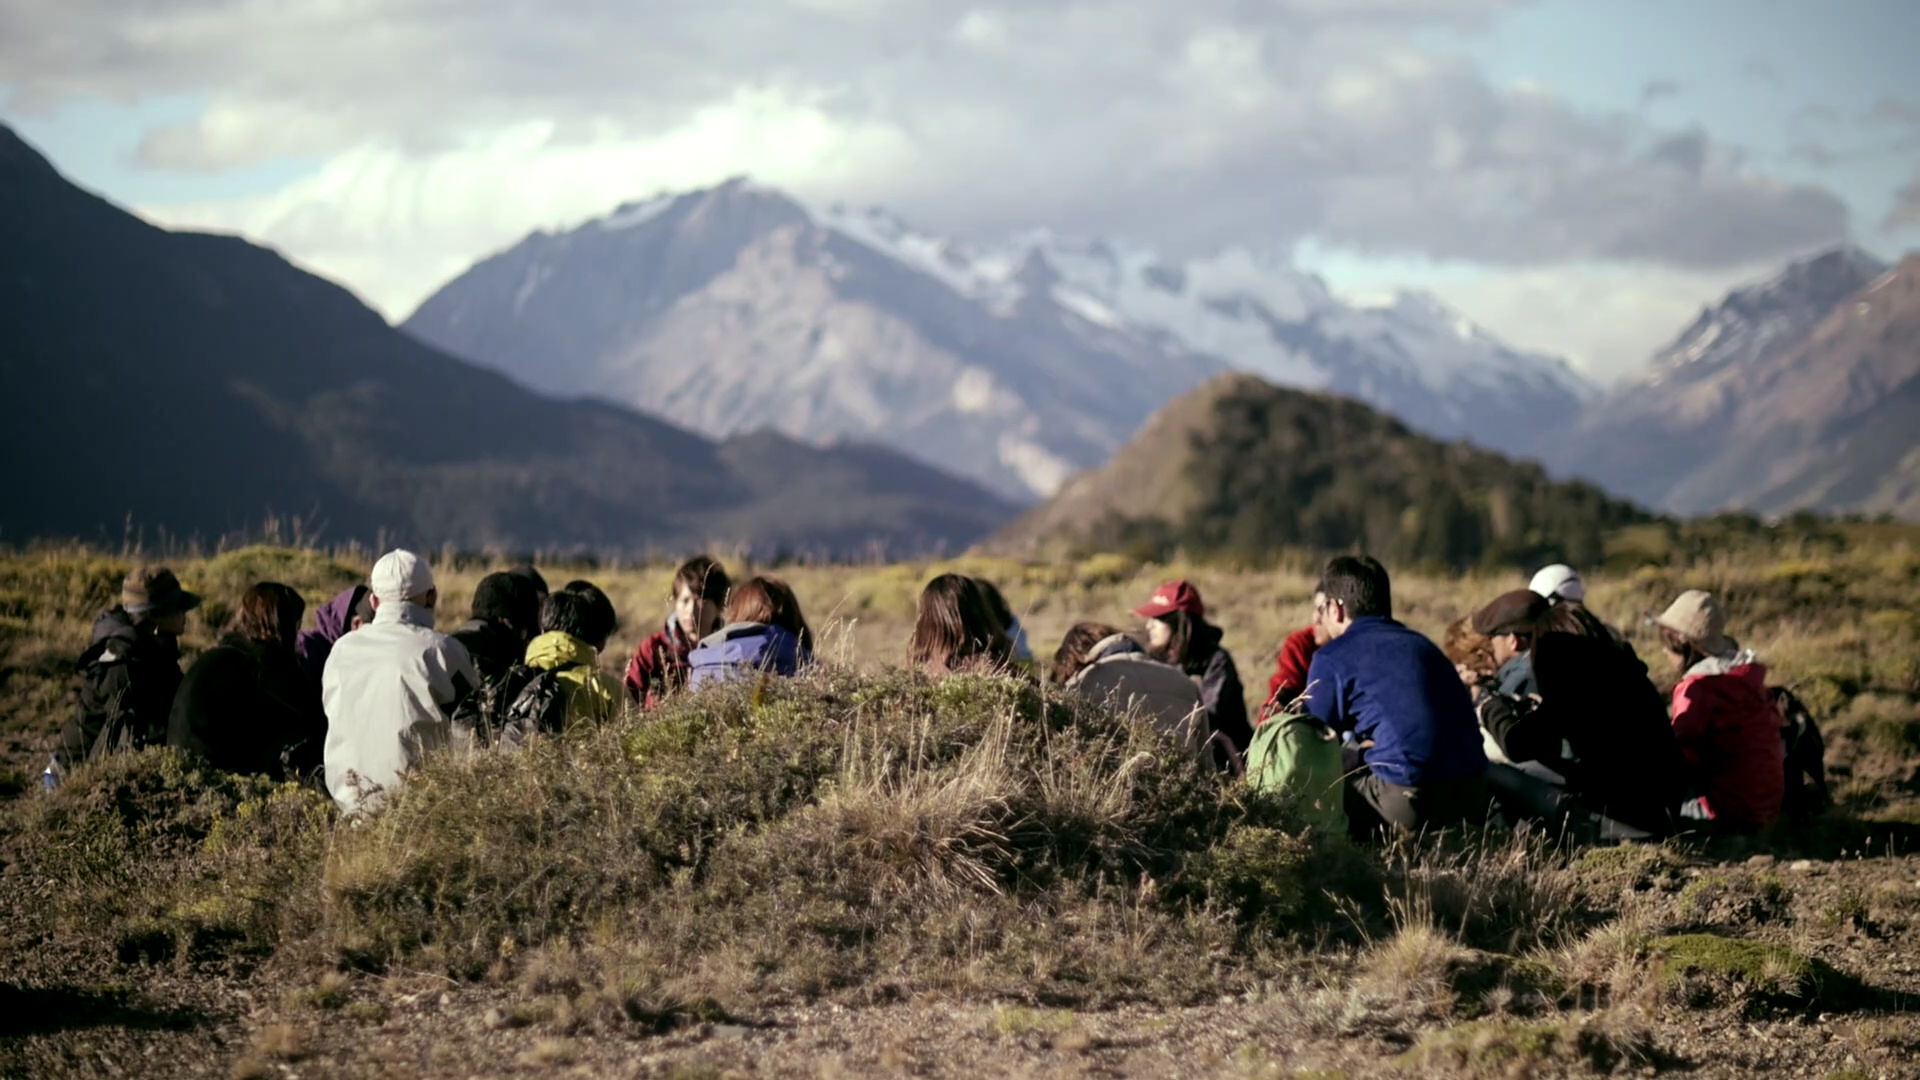
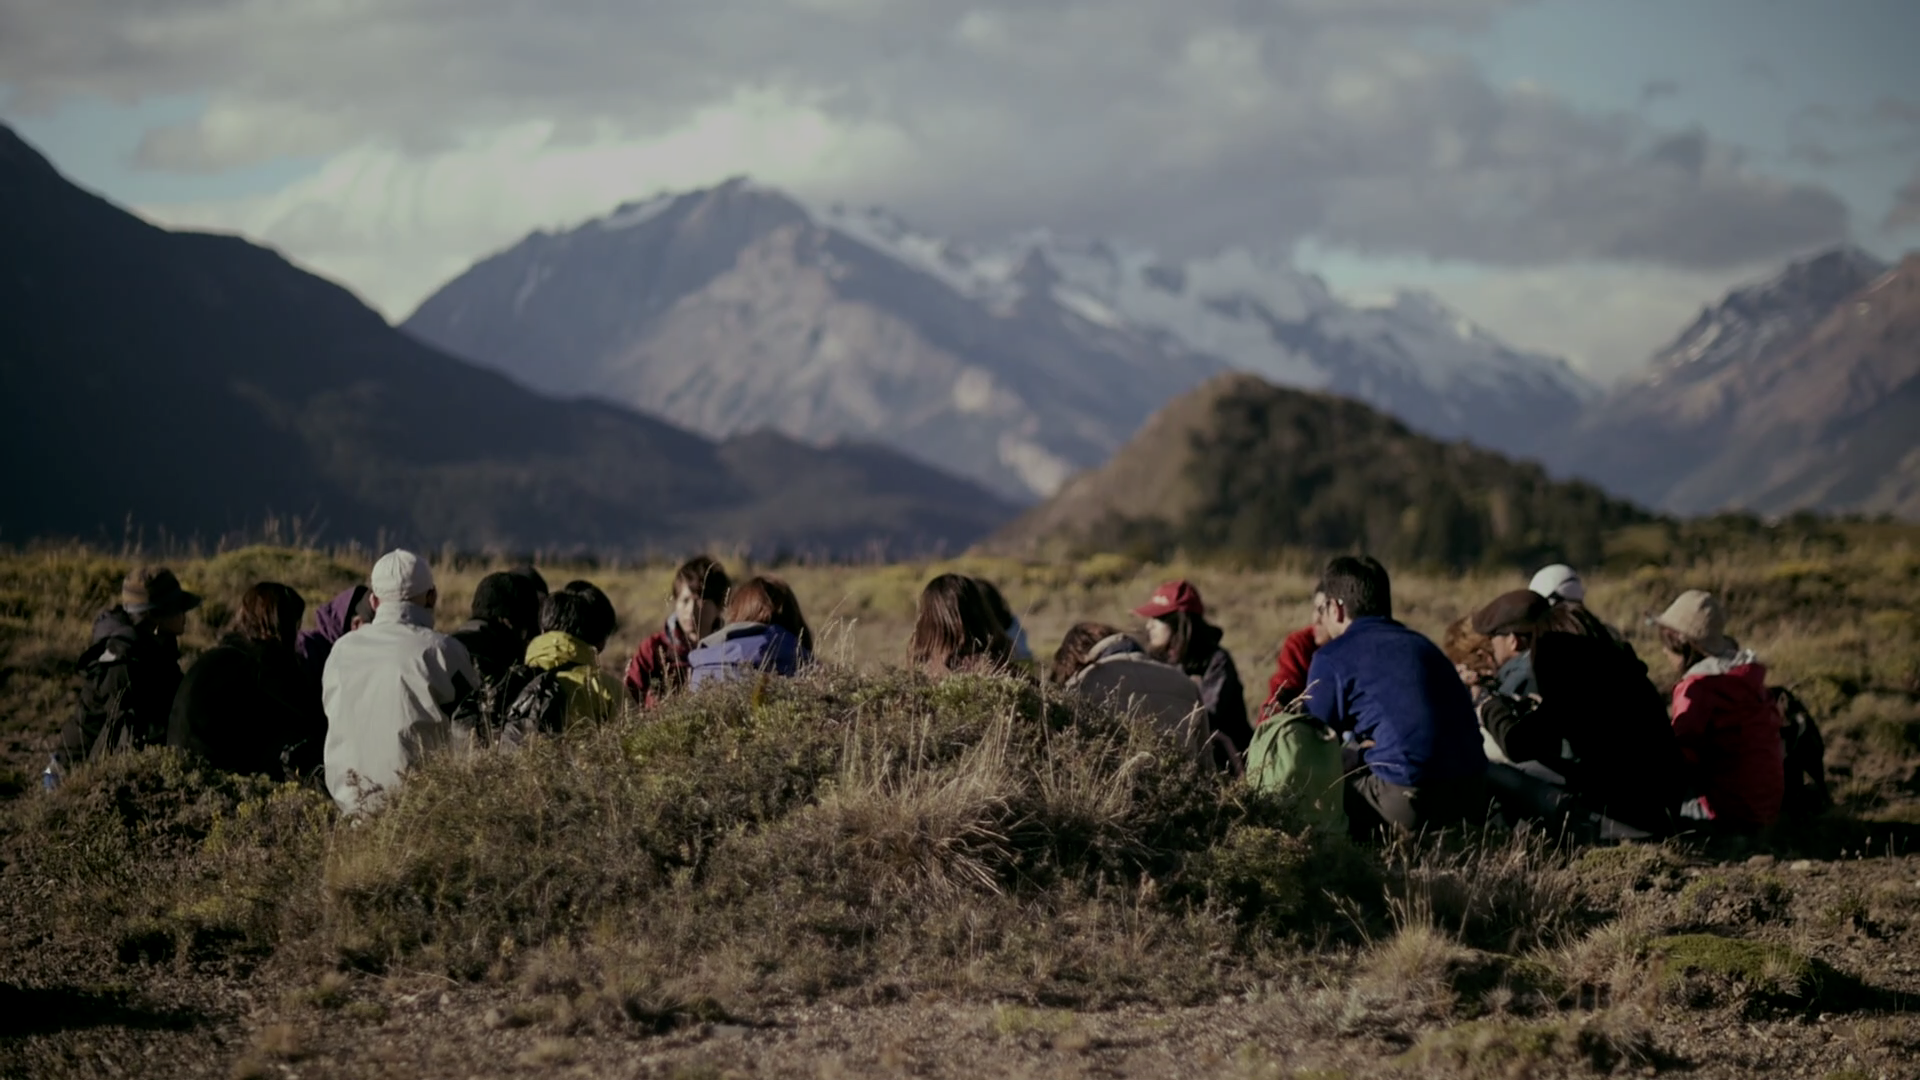
headerのborder消した spの画像暗く変更

diff --git a/app/source/scss/parts/_header.scss b/app/source/scss/parts/_header.scss
@@ -118,8 +118,7 @@
       left: 0;
       width: 100%;
       height: 100%;
-      background: url('../images/common/header/bg-border.png');
-      background-color: rgba(0,0,0,.25);
+      background-color: rgba(0,0,0,.35);
     }
   }
   .gnav {
@@ -240,8 +239,7 @@
   }
   width: 100vw;
   height: 56.25vw;
-  background: url('../videos/poster.png') no-repeat;
-  background: url('../images/common/header/bg-border.png');
+  background: url('../videos/poster.png');
   background-size: cover;
   .sp-gnav {
     position: fixed;
